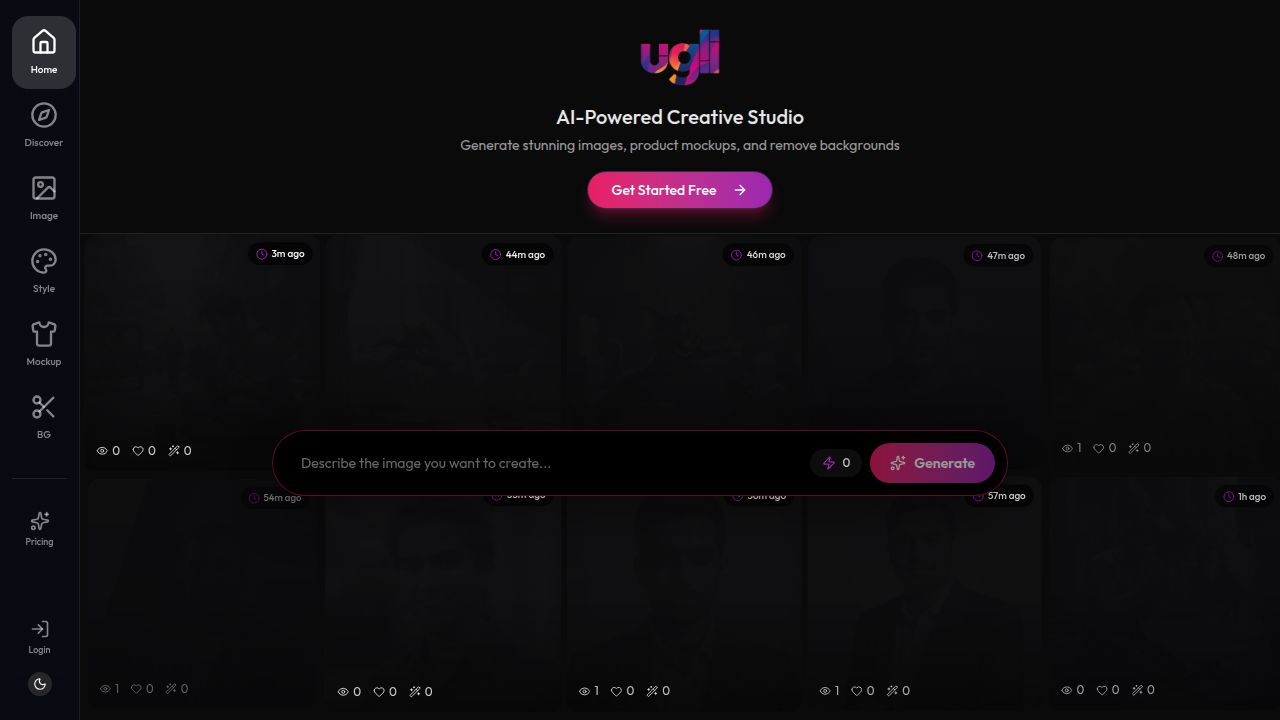
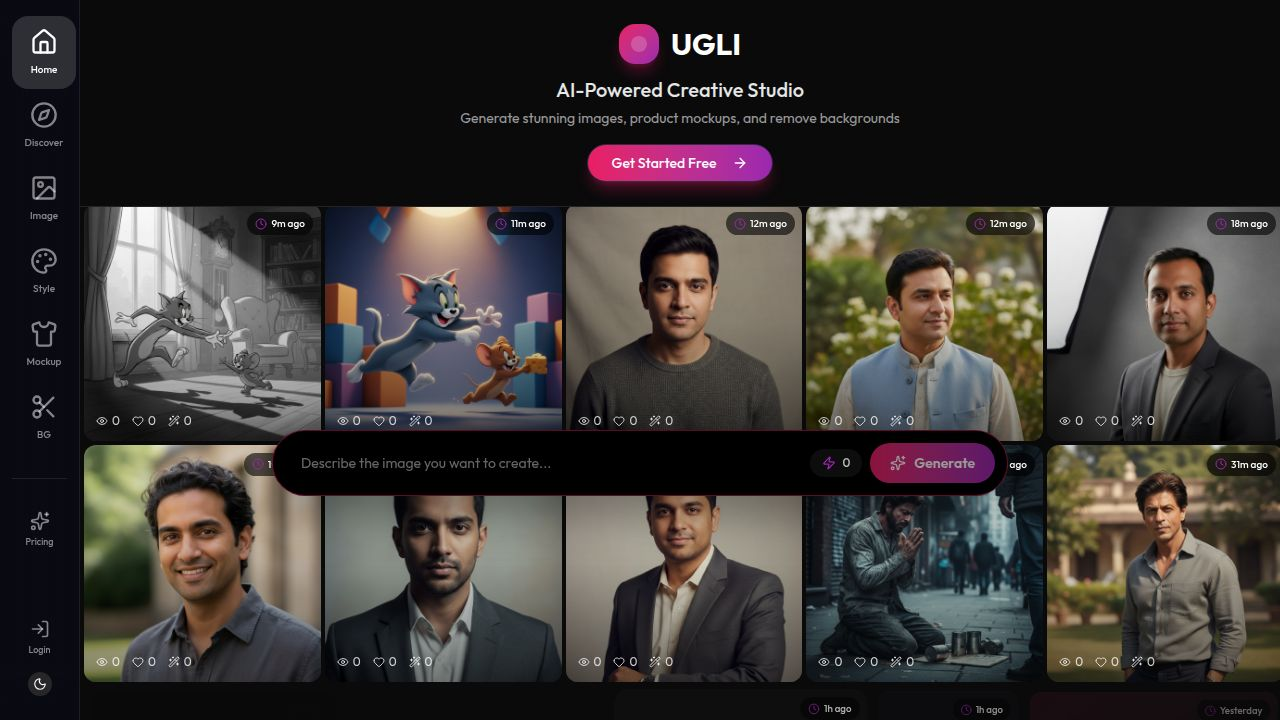
Restored to '826124b5849a335c81973c7c1feef0e2d822dc20'
Replit-Restored-To: 826124b5849a335c81973c7c1feef0e2d822dc20

diff --git a/client/src/pages/public-home.tsx b/client/src/pages/public-home.tsx
@@ -168,7 +168,7 @@ function JustifiedGalleryCard({ item, rowHeight, index, onLike, isLoggedIn }: { 
                 className={cn(
                   "w-full h-full object-cover transition-all duration-500 group-hover:scale-105",
                   imageLoaded ? "opacity-100" : "opacity-0",
-                  !item.isGenerated && "grayscale group-hover:grayscale-0"
+                  !isLoggedIn && !item.isGenerated && "grayscale group-hover:grayscale-0"
                 )}
               />
               {!imageLoaded && (
